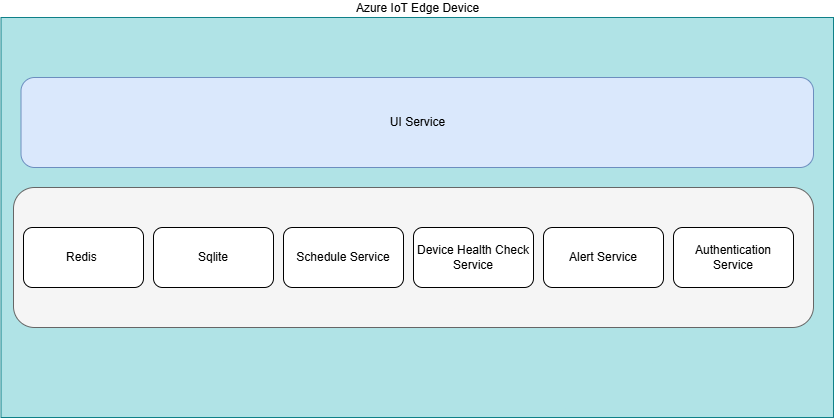
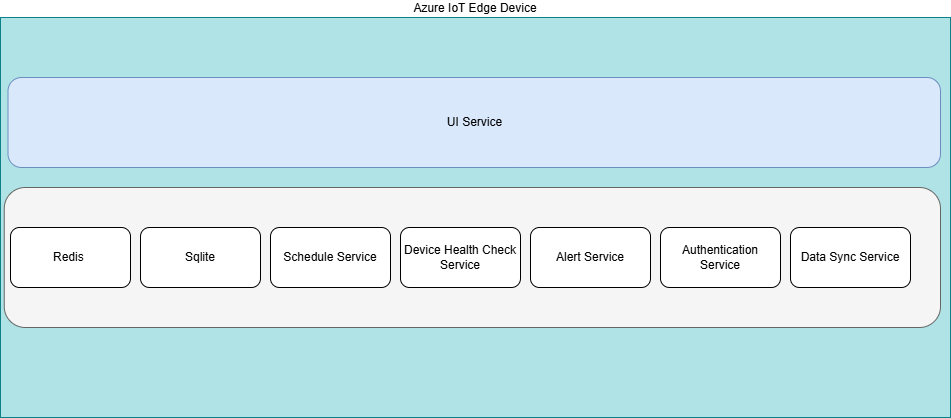
Deployed d82370e with MkDocs version: 1.6.1

diff --git a/design-proposal/index.html b/design-proposal/index.html
@@ -494,6 +494,99 @@
     </span>
   </a>
   
+    <nav class="md-nav" aria-label="Device">
+      <ul class="md-nav__list">
+        
+          <li class="md-nav__item">
+  <a href="#services" class="md-nav__link">
+    <span class="md-ellipsis">
+      Services
+    </span>
+  </a>
+  
+    <nav class="md-nav" aria-label="Services">
+      <ul class="md-nav__list">
+        
+          <li class="md-nav__item">
+  <a href="#1-redis-service" class="md-nav__link">
+    <span class="md-ellipsis">
+      1. Redis Service
+    </span>
+  </a>
+  
+</li>
+        
+          <li class="md-nav__item">
+  <a href="#2-sqlite" class="md-nav__link">
+    <span class="md-ellipsis">
+      2. Sqlite
+    </span>
+  </a>
+  
+</li>
+        
+          <li class="md-nav__item">
+  <a href="#3-schedule-service" class="md-nav__link">
+    <span class="md-ellipsis">
+      3. Schedule Service
+    </span>
+  </a>
+  
+</li>
+        
+          <li class="md-nav__item">
+  <a href="#4-device-health-check-service" class="md-nav__link">
+    <span class="md-ellipsis">
+      4. Device Health Check Service
+    </span>
+  </a>
+  
+</li>
+        
+          <li class="md-nav__item">
+  <a href="#5-alert-service" class="md-nav__link">
+    <span class="md-ellipsis">
+      5. Alert Service
+    </span>
+  </a>
+  
+</li>
+        
+          <li class="md-nav__item">
+  <a href="#6-authentication-service" class="md-nav__link">
+    <span class="md-ellipsis">
+      6. Authentication Service
+    </span>
+  </a>
+  
+</li>
+        
+          <li class="md-nav__item">
+  <a href="#7-data-sync-service" class="md-nav__link">
+    <span class="md-ellipsis">
+      7. Data Sync Service
+    </span>
+  </a>
+  
+</li>
+        
+      </ul>
+    </nav>
+  
+</li>
+        
+          <li class="md-nav__item">
+  <a href="#dataflow" class="md-nav__link">
+    <span class="md-ellipsis">
+      DataFlow
+    </span>
+  </a>
+  
+</li>
+        
+      </ul>
+    </nav>
+  
 </li>
         
       </ul>
@@ -771,6 +864,99 @@
     </span>
   </a>
   
+    <nav class="md-nav" aria-label="Device">
+      <ul class="md-nav__list">
+        
+          <li class="md-nav__item">
+  <a href="#services" class="md-nav__link">
+    <span class="md-ellipsis">
+      Services
+    </span>
+  </a>
+  
+    <nav class="md-nav" aria-label="Services">
+      <ul class="md-nav__list">
+        
+          <li class="md-nav__item">
+  <a href="#1-redis-service" class="md-nav__link">
+    <span class="md-ellipsis">
+      1. Redis Service
+    </span>
+  </a>
+  
+</li>
+        
+          <li class="md-nav__item">
+  <a href="#2-sqlite" class="md-nav__link">
+    <span class="md-ellipsis">
+      2. Sqlite
+    </span>
+  </a>
+  
+</li>
+        
+          <li class="md-nav__item">
+  <a href="#3-schedule-service" class="md-nav__link">
+    <span class="md-ellipsis">
+      3. Schedule Service
+    </span>
+  </a>
+  
+</li>
+        
+          <li class="md-nav__item">
+  <a href="#4-device-health-check-service" class="md-nav__link">
+    <span class="md-ellipsis">
+      4. Device Health Check Service
+    </span>
+  </a>
+  
+</li>
+        
+          <li class="md-nav__item">
+  <a href="#5-alert-service" class="md-nav__link">
+    <span class="md-ellipsis">
+      5. Alert Service
+    </span>
+  </a>
+  
+</li>
+        
+          <li class="md-nav__item">
+  <a href="#6-authentication-service" class="md-nav__link">
+    <span class="md-ellipsis">
+      6. Authentication Service
+    </span>
+  </a>
+  
+</li>
+        
+          <li class="md-nav__item">
+  <a href="#7-data-sync-service" class="md-nav__link">
+    <span class="md-ellipsis">
+      7. Data Sync Service
+    </span>
+  </a>
+  
+</li>
+        
+      </ul>
+    </nav>
+  
+</li>
+        
+          <li class="md-nav__item">
+  <a href="#dataflow" class="md-nav__link">
+    <span class="md-ellipsis">
+      DataFlow
+    </span>
+  </a>
+  
+</li>
+        
+      </ul>
+    </nav>
+  
 </li>
         
       </ul>
@@ -913,6 +1099,22 @@
 <h2 id="architecture">Architecture</h2>
 <h3 id="device">Device</h3>
 <p><img alt="Device Architecture" src="../diagrams/Device%20Architecture.png" /></p>
+<h4 id="services">Services</h4>
+<h5 id="1-redis-service">1. Redis Service</h5>
+<p>This Service acts as a message broker between services which enables the device to act asynchronously and enable multiprocessing, without creating any bottlenecks.</p>
+<h5 id="2-sqlite">2. Sqlite</h5>
+<p>This is the local datastore. This is used to store readings, schedules and other things that needs to be synced to cloud later or just needs to be stored.</p>
+<h5 id="3-schedule-service">3. Schedule Service</h5>
+<p>This is multi-thread based service where in we manage manage patient routines or reminders if necessary. This is a service where in we schedule threads to send out alerts if necessary. </p>
+<h5 id="4-device-health-check-service">4. Device Health Check Service</h5>
+<p>This service is needed to ensure all the services and components are working.</p>
+<h5 id="5-alert-service">5. Alert Service</h5>
+<p>This is a one stop service where we can either connect the patient to emergency services or to the patient provider if needed.</p>
+<h5 id="6-authentication-service">6. Authentication Service</h5>
+<p>This is to ensure that the device is can use the services Ausa provides.</p>
+<h5 id="7-data-sync-service">7. Data Sync Service</h5>
+<p>This service is responsible of syncing data to the cloud in real time or at intervals if needed.</p>
+<h4 id="dataflow">DataFlow</h4>
 
 
 
